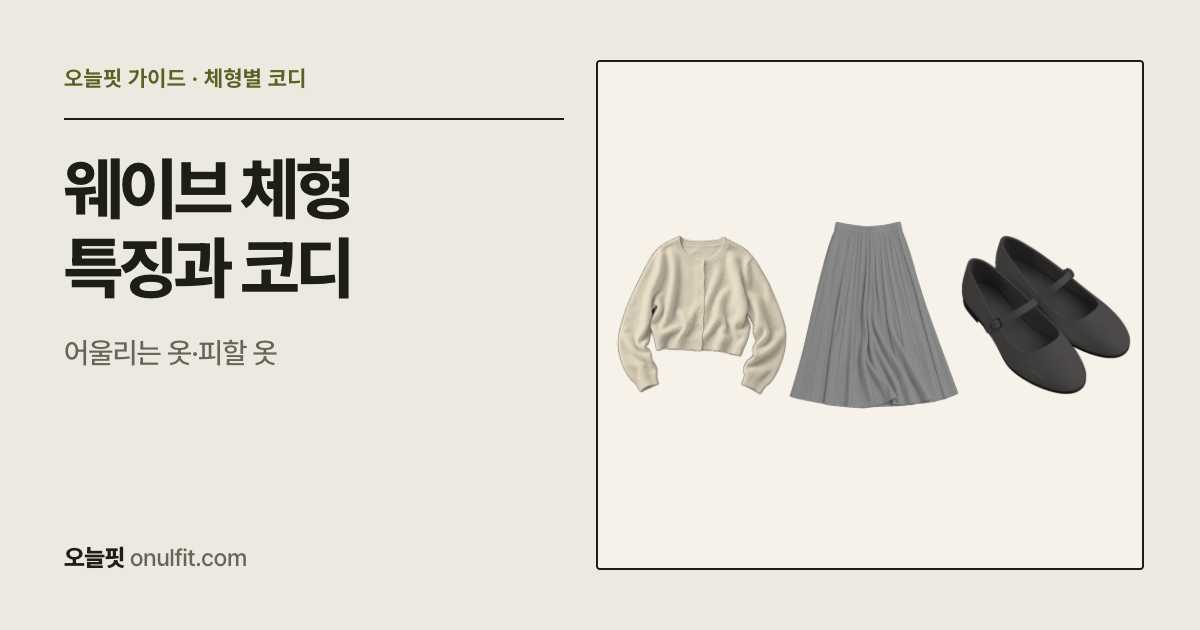
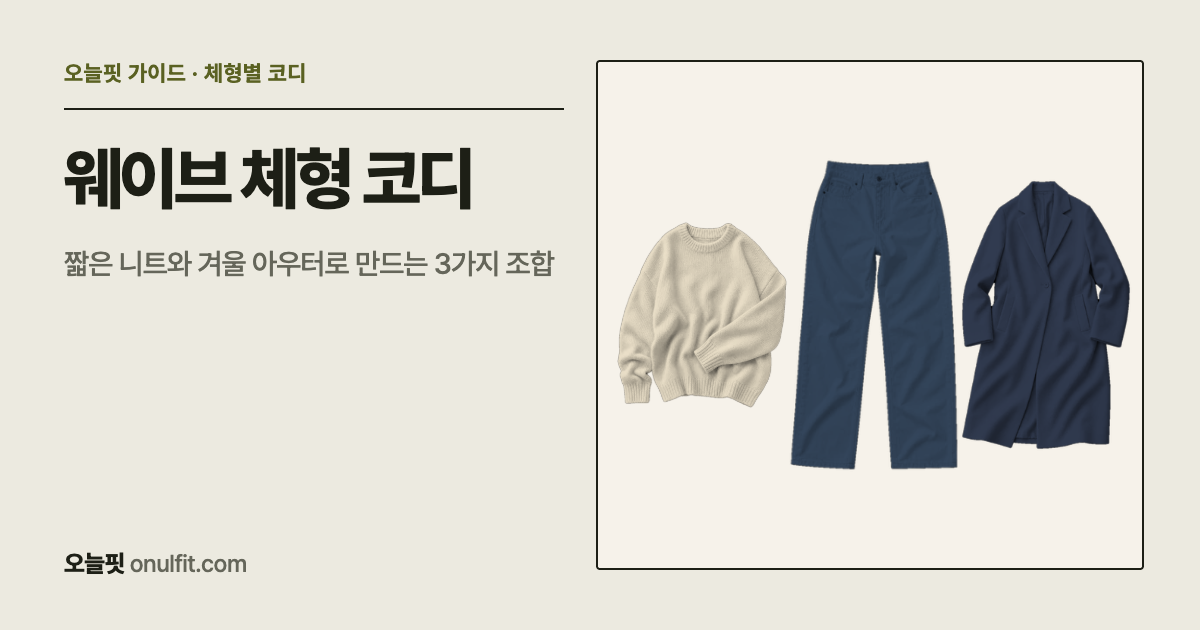
웨이브 겨울 코디와 코트 피팅 가이드를 연결

diff --git a/lib/articles.ts b/lib/articles.ts
@@ -1,7 +1,7 @@
 /* ══════════════════════════════════════════════════════════
    오늘핏 — 스타일 가이드 콘텐츠 (SEO 자산 + 제휴 승인용 매체 콘텐츠)
    검색 의도형 글. styleGuide.ts와 톤·내용 일관.
-   본문: 빈 줄로 문단 구분, "## " → 소제목, "- " → 목록,
+   본문: 빈 줄로 문단 구분, "## "·"### " → 소제목(선택 앵커 {#id}), "- " → 목록,
          [보이는 글](/guide/slug) → 다른 글로 가는 링크(문단·목록 안에서).
    운영자(스타일리스트) 감수·확장 환영.
 ══════════════════════════════════════════════════════════ */
@@ -128,18 +128,22 @@ export const ARTICLES: Article[] = [
 
   {
     slug: "wave-styling",
-    updated: "2026-11-10",
+    updated: "2026-11-23",
     category: "체형별 코디",
-    title: "웨이브 체형 특징과 코디 — 어울리는 옷·피할 옷",
-    subtitle: "부드러운 곡선을 살려 — 위는 화사하게, 아래는 정리",
-    seoTitle: "웨이브 체형 특징과 코디 — 어울리는 옷, 피할 옷 | 오늘핏",
+    title: "웨이브 체형 코디, 짧은 니트와 겨울 아우터로 만드는 3가지 조합",
+    subtitle: "하프코트로 출근하는 날부터 롱코트를 입는 주말까지",
+    seoTitle: "웨이브 체형 코디, 짧은 니트와 겨울 아우터로 만드는 3가지 조합 | 오늘핏",
     seoDescription:
-      "웨이브 체형 특징부터 어울리는 넥라인·상의·하의·소재, 피해야 할 옷까지. 하이웨스트로 비율을 살리는 웨이브 체형 코디 공식을 정리했어요.",
+      "아이보리 니트와 진청 데님에 어떤 코트를 걸칠까요? 출근·모임·주말에 입을 웨이브 체형 겨울 코디 세 벌과 하프코트·롱코트를 입을 때 허리선을 잡는 법을 소개해요.",
     date: "2026-06-13",
     readingTime: 6,
-    content: `웨이브 체형은 상체가 얇고 부드러우며 하체에 무게중심이 있는 골격입니다. 살집이 부드럽고 허리 위치가 낮은 편이라, 여성스럽고 사랑스러운 분위기가 가장 잘 어울려요. 핵심 원칙은 '위는 화사하게, 아래는 정리.'
+    content: `추운 아침, 아이보리 니트와 진청 데님은 골랐는데 코트 앞에서 망설여지나요? 짧은 라운드넥 니트에 허리가 높은 데님을 입고, 엉덩이를 살짝 덮는 하프코트를 열어 보세요. 니트 밑단과 바지 윗선이 만나는 자리가 보여서 낮은 운동화에도 허리선이 또렷해져요. 같은 원리로 출근, 모임, 주말에 입을 세 벌을 골라봤어요.
 
-상체에 시선과 디테일을 주고, 하이웨스트로 허리를 끌어올려 비율을 만드는 것이 웨이브의 정답입니다.
+## 겨울 아우터로 완성하는 코디 3가지 {#winter-looks}
+
+- 출근하는 날에는 아이보리 니트, 진청 일자 데님, 네이비 하프코트에 로퍼를 신어 보세요. 긴 니트라면 앞단만 살짝 넣어도 돼요.
+- 모임에 가는 날에는 짧은 크림색 니트 가디건에 플리츠 스커트와 짧은 울 재킷을 입어 보세요. 재킷 자락 아래로 스커트 주름이 시작되는 위치를 거울에서 확인해 보세요.
+- 주말 산책에는 얇은 니트, 허리가 높은 데님, 차콜 롱코트와 운동화가 편해요. 코트를 잠글 때는 벨트를 느슨하게 묶고, 열어 입을 때는 니트와 바지의 경계가 보이게 해보세요.
 
 ## 넥라인과 상의
 
@@ -155,21 +159,11 @@ export const ARTICLES: Article[] = [
 
 부드럽고 하늘거리는 소재가 웨이브의 부드러운 몸과 잘 어우러져요. 시폰, 앙고라, 레이스, 부드러운 니트가 좋습니다. 가죽이나 두꺼운 데님처럼 뻣뻣한 소재는 딱딱하고 어색해 보여요.
 
-## 흔한 실수
-
-롱 기장으로 키가 눌리는 것, 상체를 너무 비워 빈약해 보이는 것, 뻣뻣한 소재로 부드러운 몸이 어색해지는 것이 흔한 실수입니다.
-
 ## 아우터와 소품
 
-아우터는 짧은 기장 재킷, 크롭 가디건, 트위드가 상체에 머물러 비율을 살려줘요. 긴 롱코트는 키를 눌러 보이게 하니 주의하세요. 신발과 가방은 발등이 드러나는 플랫·슬링백, 작은 숄더백처럼 가볍고 아담한 것이 여리한 분위기와 어울립니다. 투박한 워커나 큰 토트백은 무거워 보여요. 액세서리는 가는 체인이나 작은 링 귀걸이를 자잘하게 레이어드하면 화사함이 더해집니다.
+롱코트가 묵직해 보이면 같은 신발을 신은 채 앞섶을 열었다가 벨트를 묶어 보세요. 하프와 롱 사이에서 고민된다면 [웨이브 체형 코트 피팅 가이드](/guide/body-type-coat#wave-coat)에서 벨트 위치와 밑단을 비교하는 순서를 볼 수 있어요.
 
-## 코디 공식
-
-- 크롭 가디건 + 하이웨스트 플레어 스커트
-- 짧은 니트 + 하이웨스트 부츠컷 데님 + 슬링백
-- 랩 원피스 + 짧은 트위드 재킷
-
-겨울 옷은 [체형별 니트 고르는 법](/guide/body-type-knit), [체형별 숏 패딩 고르는 법](/guide/body-type-short-padding), [체형별 코트 고르는 법](/guide/body-type-coat), [체형별 청바지 고르는 법](/guide/body-type-denim)에서 골격별로 더 자세히 볼 수 있어요. 스커트는 [체형별 스커트 고르는 법](/guide/body-type-skirt)에, 결혼식 옷차림은 [골격별 결혼식 하객룩](/guide/wedding-guest-outfit)에 정리했어요.
+둥근 목선의 니트에는 가는 체인 목걸이를, 짧은 가디건과 스커트에는 작은 숄더백을 곁들여 보세요. 아우터 안쪽에 입을 옷은 [체형별 니트 고르는 법](/guide/body-type-knit)과 [체형별 청바지 고르는 법](/guide/body-type-denim)에 정리했어요. 패딩을 입는 날에는 [체형별 숏 패딩](/guide/body-type-short-padding), 모임을 앞뒀다면 [체형별 스커트](/guide/body-type-skirt)와 [골격별 결혼식 하객룩](/guide/wedding-guest-outfit)도 참고하세요.
 
 동창회나 결혼식 하객처럼 신경 쓰는 자리에서는, 웨이브는 허리선이 살아있는 원피스 한 벌이 가장 쉽고 예뻐요. 핏앤플레어나 랩 원피스에 짧은 재킷을 더하면 완성됩니다. 내 골격이 웨이브가 맞는지, 어울리는 색은 무엇인지 궁금하다면 오늘핏 무료 진단으로 확인해보세요.`,
   },
@@ -226,15 +220,15 @@ export const ARTICLES: Article[] = [
 
   {
     slug: "body-type-coat",
-    updated: "2026-11-16",
+    updated: "2026-11-23",
     category: "체형별 코디",
     title: "체형별 겨울 코트 고르는 법 — 기장·어깨·소재 세 가지만 보세요",
     subtitle: "한 번 사면 네 달 입는 옷, 골격에 맞춰 고르는 법",
     seoTitle: "체형별 코트 고르는 법 — 스트레이트 웨이브 내추럴 겨울 코트 추천 | 오늘핏",
     seoDescription:
-      "스트레이트·웨이브·내추럴 골격별로 어울리는 겨울 코트와 패딩 기장·어깨·소재를 정리했어요. 퍼스널컬러별 코트 색, 코트와 바지 색 맞추는 법, 매장에서 입어볼 때 체크할 것까지.",
+      "스트레이트·웨이브·내추럴 체형별로 겨울 코트의 기장·어깨·소재를 비교해요. 웨이브 체형이라면 평소 입던 니트와 신발로 하프코트와 롱코트의 허리선, 밑단, 걸음까지 확인해 보세요.",
     date: "2026-11-10",
-    readingTime: 7,
+    readingTime: 9,
     content: `겨울에는 코트가 코디의 절반입니다. 밖에서 사람들이 보는 건 거의 코트뿐이고, 한 번 사면 11월부터 2월까지 네 달을 입어요. 그래서 코트만큼은 '예쁜 것'보다 '내 골격에 맞는 것'을 골라야 후회가 없습니다.
 
 코트를 고를 때 볼 것은 딱 세 가지예요. 기장, 어깨, 소재. 골격마다 이 세 가지의 정답이 다릅니다.
@@ -250,16 +244,29 @@ export const ARTICLES: Article[] = [
 
 패딩이라면 광택 없는 숏 패딩을 고르세요. 누빔 간격이 넓고 빵빵한 패딩보다, 얇게 누빈 경량 패딩이 상체를 덜 부해 보이게 합니다. 골격별 숏 패딩은 [체형별 숏 패딩 고르는 법](/guide/body-type-short-padding)에 따로 정리했어요.
 
-## 웨이브 — 짧은 기장, 허리선, 가벼운 소재
+## 웨이브 체형 코트, 하프와 롱 중 무엇을 입을까? {#wave-coat}
 
-웨이브는 상체가 얇고 하체에 무게중심이 있어서, 긴 코트가 키를 누르기 쉬워요.
+하프 코트를 입었을 때는 괜찮았는데 롱코트만 걸치면 옷이 먼저 보일 때가 있죠. 그럴 땐 길이를 포기하기 전에 거울 앞에서 벨트 위치를 한 번 바꿔보세요. 웨이브 체형의 겨울 코트를 고를 때는 내가 즐겨 입는 하의의 허리선과 코트 앞섶이 만나는 자리가 좋은 출발점이에요.
 
-- 기장: 엉덩이를 살짝 덮는 하프 코트나 숏 코트가 비율을 가장 잘 살려요.
-- 허리: 벨트로 허리를 묶는 랩 코트도 좋아요. 허리선이 생기면 하체가 정리돼 보입니다.
-- 소재: 가볍고 부드러운 핸드메이드 울, 앙고라 혼방. 두껍고 뻣뻣한 코트는 몸이 옷에 묻혀요.
-- 롱 코트가 입고 싶다면: 노카라처럼 목 주변이 가벼운 디자인을 고르고, 하의는 하이웨스트로, 신발은 굽이 조금 있는 것으로 다리 길이를 보태세요.
+### 하프 코트가 손이 가는 날
 
-패딩은 크롭 숏 패딩이 정답이에요. 하이웨스트 데님이나 롱 스커트와 입으면 허리가 높아 보입니다.
+데님과 운동화를 자주 신는다면 엉덩이를 살짝 덮는 하프 코트부터 입어보세요. 아이보리 니트 앞단을 진청 데님 안에 가볍게 넣고, 코트 단추를 풀어 보세요. 코트 안쪽으로 바지 윗선이 살짝 보이면 낮은 운동화를 신어도 위아래 비율이 또렷해져요.
+
+단추를 잠갔을 때 밑단이 들뜨거나 주머니가 양옆으로 벌어진다면, 같은 옷을 한 치수 크게 입어보세요. 어깨까지 너무 커진다면 밑단에 여유가 있는 다른 하프 코트가 더 편할 수 있어요.
+
+### 롱코트는 벨트 위치부터
+
+마음에 든 롱코트가 있다면 평소 출근할 때 신는 신발과 함께 입어보세요. 허리끈을 원래 위치에서 한 번, 그보다 손가락 두 마디쯤 위에서 한 번 가볍게 잡아 보세요. 휴대폰을 같은 높이에 두고 찍은 전신 사진 두 장을 나란히 보면, 내 눈에 자연스러운 위치가 보여요. 마음에 든 위치와 실제 벨트 고리 위치가 맞는지도 확인하세요.
+
+목이 올라오는 니트에 넓은 코트 깃까지 겹쳐 답답해 보이는 날엔, 니트를 그대로 두고 깃만 펴보세요. 차콜 롱코트 사이로 밝은 니트와 청바지 허리선이 조금 보이면 어두운 코트 한 벌로도 출근 옷차림에 표정이 생겨요.
+
+### 피팅룸을 나서기 전 1분
+
+가방을 평소처럼 어깨에 메세요. 코트 어깨가 한쪽으로 쏠리는지, 팔을 앞으로 뻗을 때 등판이 당기는지 느껴보세요. 의자에 앉았다 일어나 보고, 매장 안을 몇 걸음 걸으며 밑단이 신발이나 가방에 걸리는지도 살펴보세요. 서서 찍은 사진만으로는 놓치기 쉬운 차이예요.
+
+두 벌 다 마음에 들면 이번 주 가장 자주 입은 바지와 가장 많이 신은 신발을 떠올려보세요. 그 차림에 그대로 걸치고 집을 나서고 싶은 쪽이 내 겨울 코트예요.
+
+부드럽게 떨어지는 울 코트는 벨트를 묶었을 때 옆선이 어떻게 접히는지도 보세요. 코트 안에 입을 니트와 데님이 고민된다면 [웨이브 체형 겨울 코디 세 가지](/guide/wave-styling#winter-looks)에서 평소 일정에 맞는 한 벌을 골라보세요.
 
 ## 내추럴 — 오버핏, 롱 기장, 거친 소재
 
@@ -296,7 +303,7 @@ export const ARTICLES: Article[] = [
 
 코트 색이 내 퍼스널컬러와 안 맞을 때는 [웜톤이 블랙 입는 법, 쿨톤이 베이지 입는 법](/guide/warm-black-cool-beige)을, 코트 위에 두를 머플러 색은 [퍼스널컬러별 머플러·가방 색 고르는 법](/guide/personal-color-muffler-bag)을 참고하세요.
 
-내 골격과 퍼스널컬러를 아직 모른다면, 오늘핏 무료 진단으로 1분 만에 확인하고 오늘 날씨와 일정에 맞는 코트 코디까지 받아보세요.`,
+내 골격과 퍼스널컬러를 아직 모른다면, [오늘핏 무료 체형·퍼스널컬러 자가진단](/self-check)에서 확인하고 오늘 날씨와 일정에 맞는 코트 코디까지 받아보세요.`,
   },
 
   {

diff --git a/app/guide/[slug]/page.tsx b/app/guide/[slug]/page.tsx
@@ -125,12 +125,20 @@ export default async function ArticlePage({ params }: Props) {
         )}
 
         <div>
-          {a.content.split("\n\n").map((p, i) =>
-            p.startsWith("## ") ? (
-              <h2 key={i} style={{ fontFamily: sans, fontSize: "23px", fontWeight: 800, letterSpacing: "-0.045em", color: INK, lineHeight: 1.3, margin: "40px 0 14px", paddingTop: "10px", borderTop: `1px solid ${INK}`, wordBreak: "keep-all" }}>
-                {p.slice(3)}
-              </h2>
-            ) : p.startsWith("- ") ? (
+          {a.content.split("\n\n").map((p, i) => {
+            const heading = /^(##|###) (.+?)(?: \{#([a-z0-9-]+)\})?$/.exec(p);
+            if (heading) {
+              const [, level, label, id] = heading;
+              if (level === "###") {
+                return <h3 key={i} id={id} style={{ fontFamily: sans, fontSize: "19px", fontWeight: 700, color: INK, margin: "24px 0 10px", wordBreak: "keep-all" }}>{label}</h3>;
+              }
+              return (
+                <h2 key={i} id={id} style={{ fontFamily: sans, fontSize: "23px", fontWeight: 800, letterSpacing: "-0.045em", color: INK, lineHeight: 1.3, margin: "40px 0 14px", paddingTop: "10px", borderTop: `1px solid ${INK}`, wordBreak: "keep-all" }}>
+                  {label}
+                </h2>
+              );
+            }
+            return p.startsWith("- ") ? (
               <ul key={i} style={{ margin: "0 0 14px", paddingLeft: "18px" }}>
                 {p.split("\n").map((li, j) => (
                   <li key={j} style={{ fontFamily: sans, fontSize: "16px", color: BODY, lineHeight: 1.85, letterSpacing: "-0.015em", wordBreak: "keep-all" }}>
@@ -142,8 +150,8 @@ export default async function ArticlePage({ params }: Props) {
               <p key={i} style={{ fontFamily: sans, fontSize: "16px", color: BODY, lineHeight: 1.9, letterSpacing: "-0.015em", margin: "0 0 18px", wordBreak: "keep-all" }}>
                 {inline(p)}
               </p>
-            )
-          )}
+            );
+          })}
         </div>
 
         {/* CTA — 무료 자가진단(바로 열림) + 1:1 상담 신청 */}

diff --git a/lib/covers.ts b/lib/covers.ts
@@ -35,9 +35,9 @@ export const COVERS: Record<string, CoverItem[]> = {
     { kind: "loafer", name: "로퍼", hex: "#3B2C22" },
   ],
   "wave-styling": [
-    { kind: "crop_cardigan", name: "크롭 가디건", hex: "#EADFC8" },
-    { kind: "pleated_skirt", name: "플리츠 스커트", hex: "#8E8E8E" },
-    { kind: "maryjane", name: "메리제인", hex: "#2A2826" },
+    { kind: "knit", name: "아이보리 니트", hex: "#EADFC8" },
+    { kind: "jeans", name: "진청 데님", hex: "#34465C" },
+    { kind: "coat", name: "네이비 코트", hex: "#313B50" },
   ],
   "natural-styling": [
     { kind: "shirt", name: "체크 셔츠", hex: "#6B6F3C", pattern: "check" },
@@ -129,8 +129,9 @@ export function coverFor(slug: string, title: string): Cover {
   const items = COVERS[slug];
   if (!items) return { url: OG_IMAGE.url, webp: OG_IMAGE.url, width: OG_IMAGE.width, height: OG_IMAGE.height, alt: OG_IMAGE.alt };
   const names = [...new Set(items.map((i) => i.name))].join(", ");
+  const version = slug === "wave-styling" ? "20261123" : COVER_VERSION;
   return {
-    url: `/covers/${slug}.png?v=${COVER_VERSION}`,
+    url: `/covers/${slug}.png?v=${version}`,
     webp: `/covers/${slug}.webp?v=${COVER_VERSION}`,
     width: 1200,
     height: 630,
